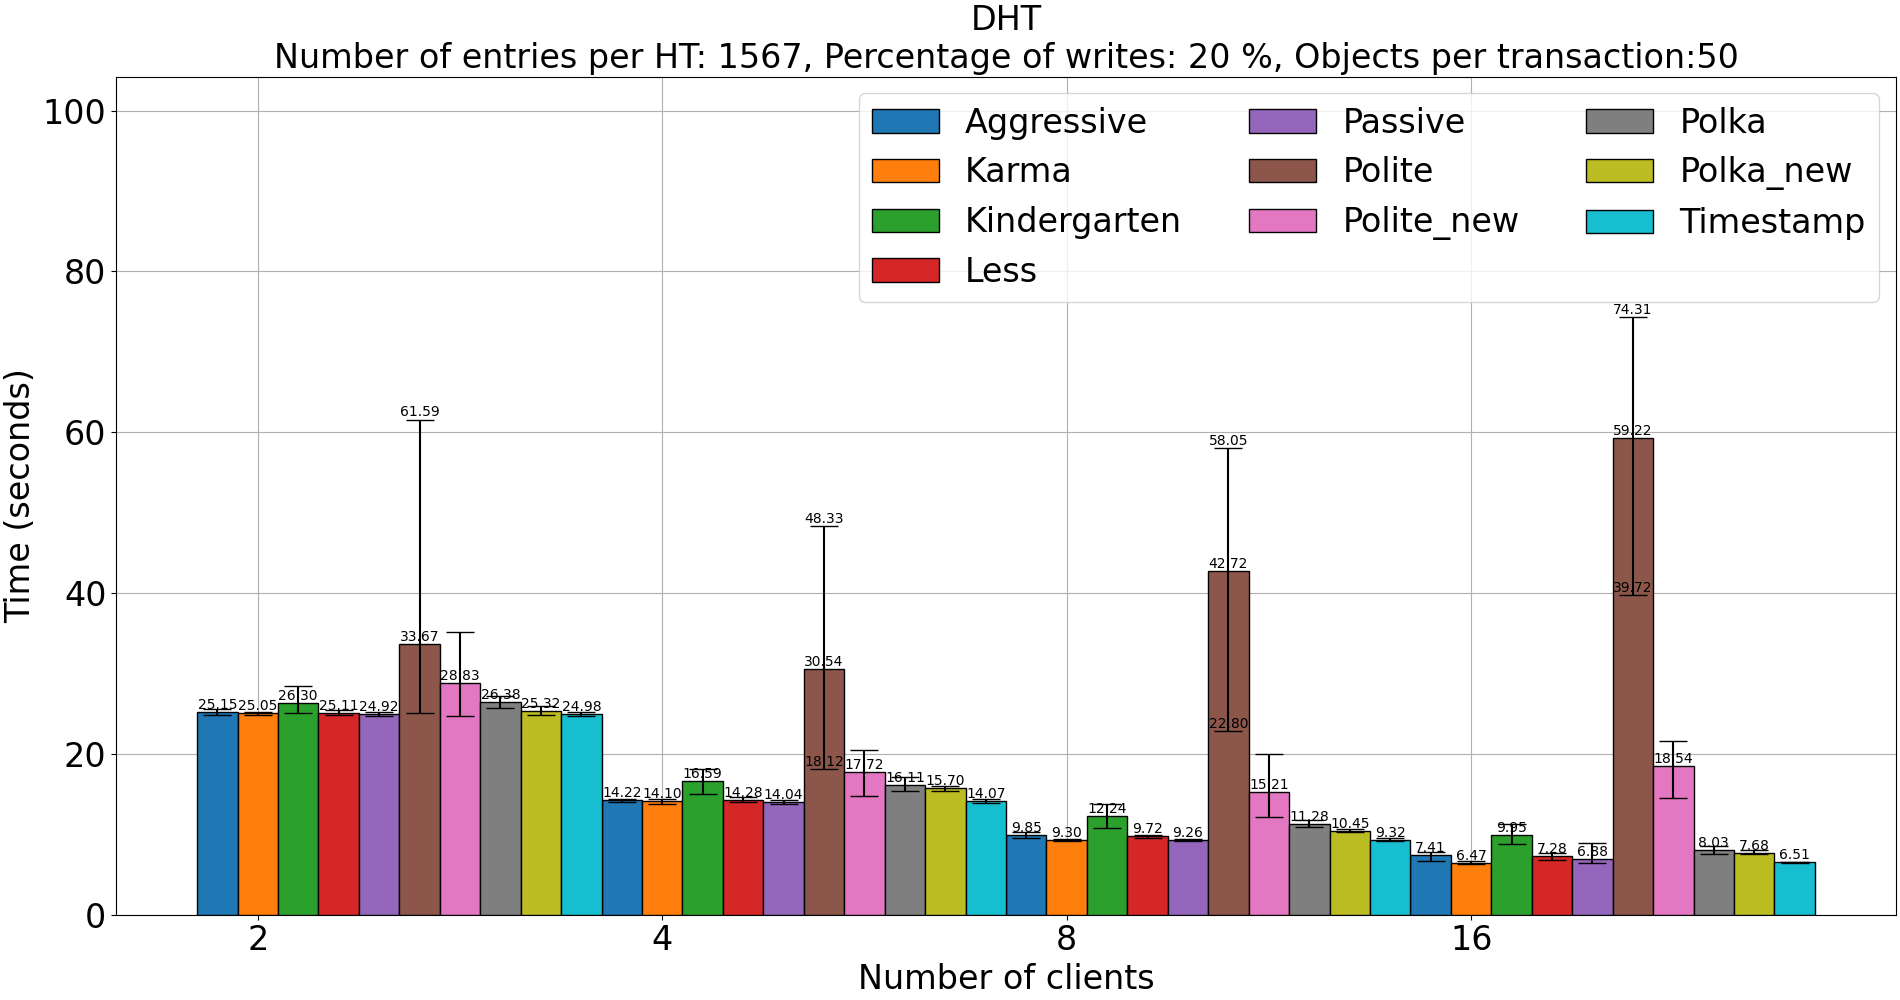
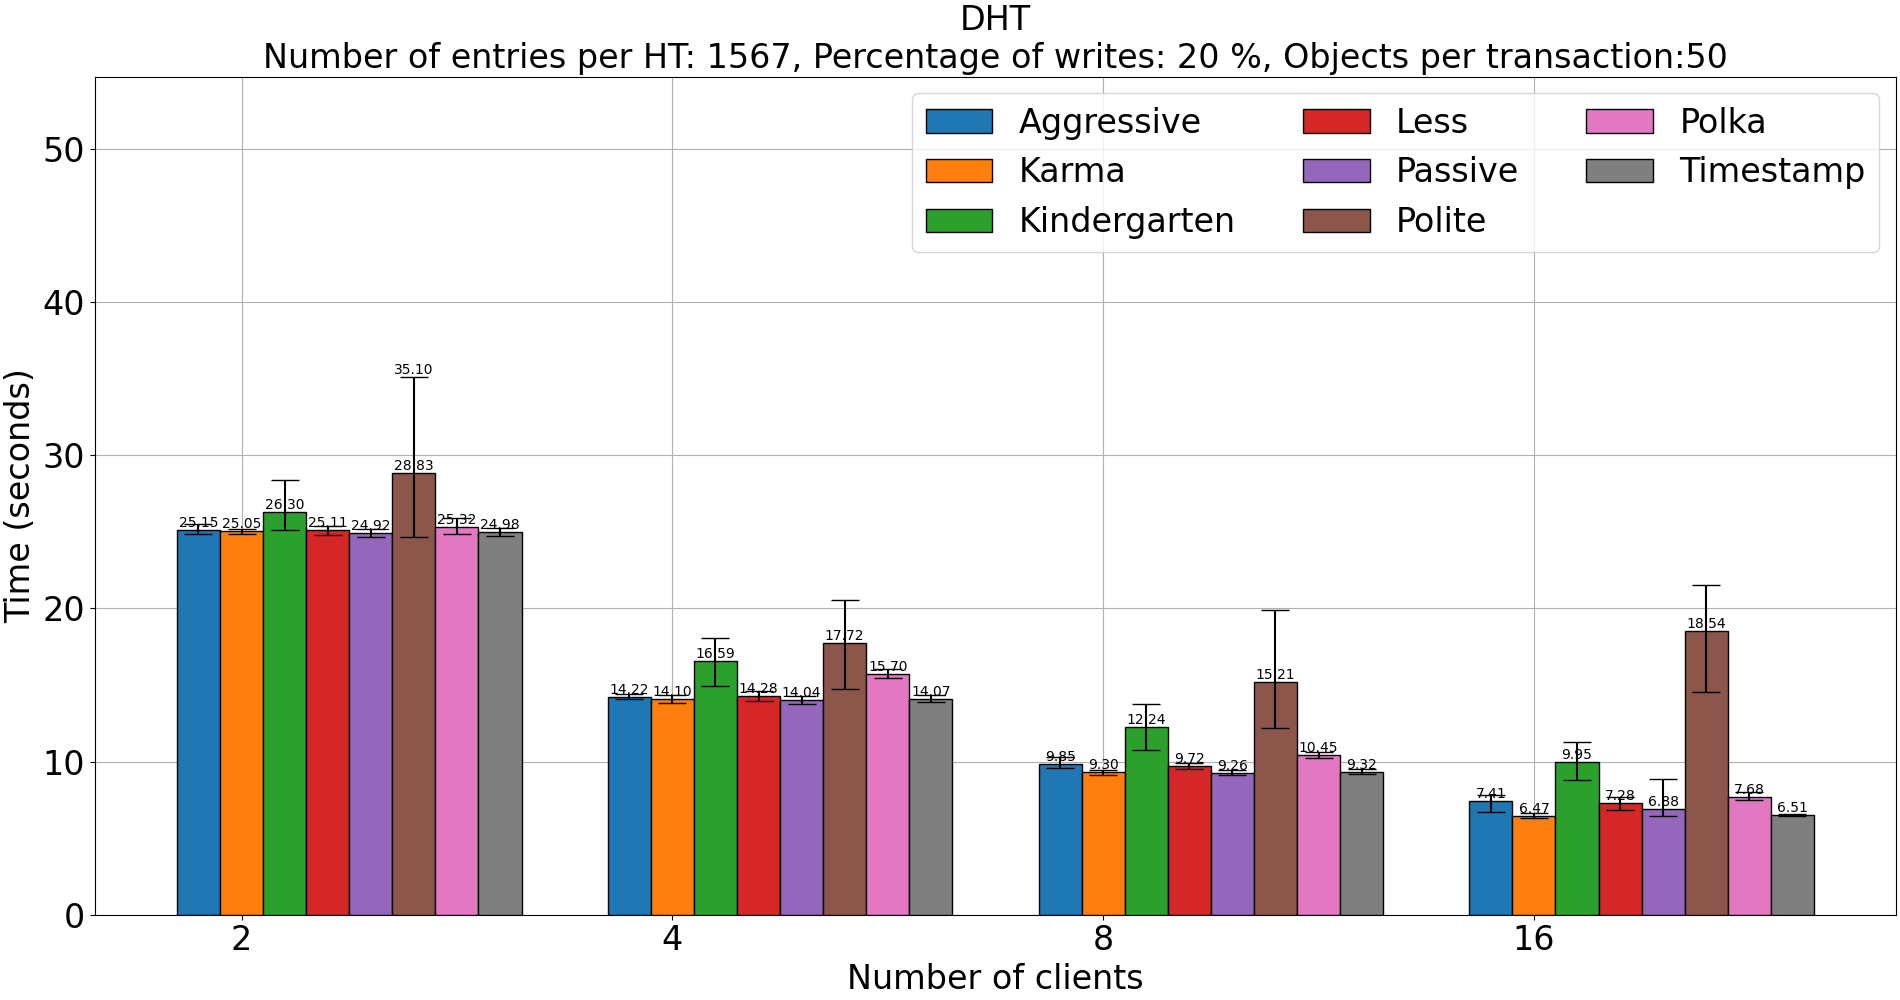
Added new script to generate compare plots that is a basic copy of the previous script to generate plots per CM, so that both types of plot scripts remain saved. Generated pots for both of those types.

diff --git a/PaperTests/DHT/generate_plots_dht_compare.py b/PaperTests/DHT/generate_plots_dht_compare.py
@@ -5,12 +5,8 @@ from matplotlib import pyplot as plt
 import math
 import os
 
-#contention_managers = ["Aggressive", "Karma", "Kindergarten", "Less", "Passive", 
-#                       "Polite", "Polite_new", "Polka", "Polka_new", "Timestamp"]
-
 contention_managers = ["Aggressive", "Karma", "Kindergarten", "Less", "Passive", 
-                       "Polite", "Polka", "Timestamp"]
-
+                       "Polite", "Polite_new", "Polka", "Polka_new", "Timestamp"]
 
 use_cases = []
 tests_cms = []
@@ -21,9 +17,6 @@ aborts = []
 
 for cm in contention_managers:
     dht_tests_filename = "tests_results/dht_" + cm.lower() + ".txt"
-
-    if (cm == 'Polite' or cm == 'Polka'):
-        dht_tests_filename = "tests_results/dht_" + cm.lower() + "_new.txt"
 
     lines = open(dht_tests_filename, "r").readlines()
 
@@ -171,6 +164,8 @@ print(counts)
 
 if not os.path.exists("Plots"):
     os.makedirs("Plots")
+if not os.path.exists("Plots/Compare"):
+    os.makedirs("Plots/Compare")
 
 multiply_factor = 1.1
 
@@ -250,7 +245,7 @@ for wp in writes_percentage:
 
             fig.set_figheight(10)
             fig.set_figwidth(19)
-            fig.savefig(f"Plots/NKEYS: {number_of_keys}, NHTENTRIES: {nohte}, WRITES: {wp}, NOBJTRANS:{opt}.png")
+            fig.savefig(f"Plots/Compare/NKEYS: {number_of_keys}, NHTENTRIES: {nohte}, WRITES: {wp}, NOBJTRANS:{opt}.png")
             n+=1
             i+=1
 
